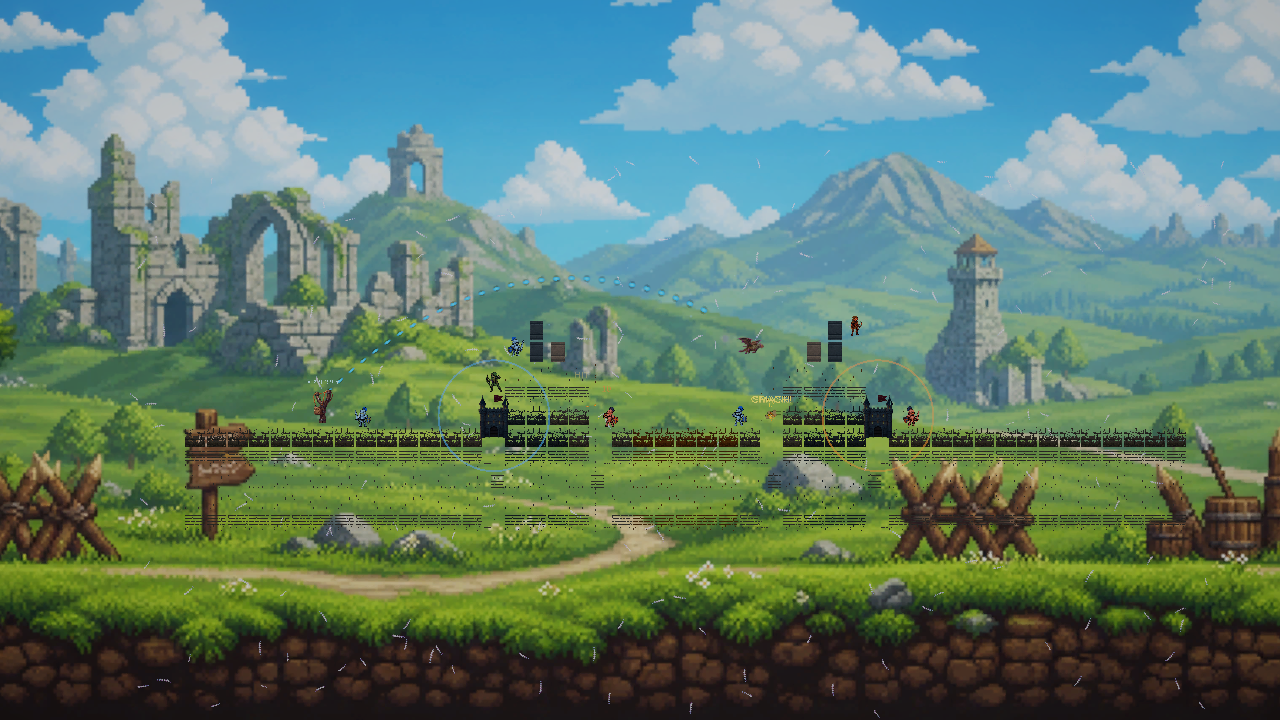
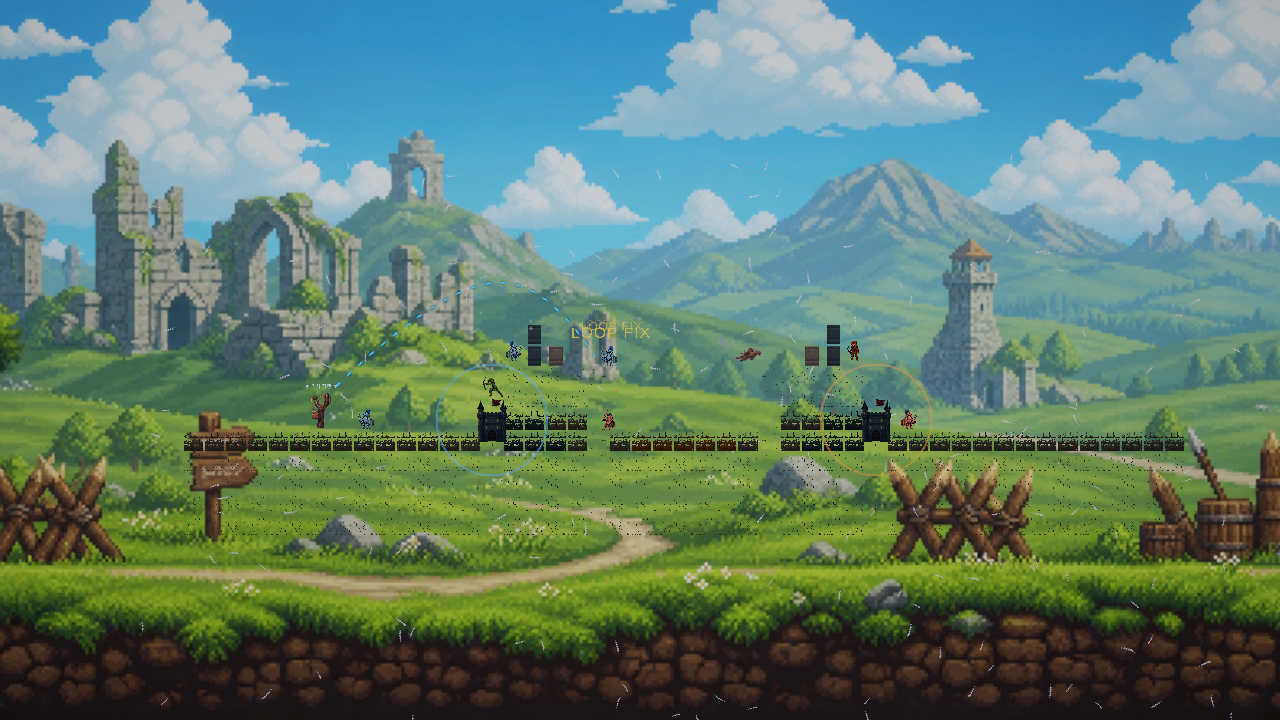
fix(trace): stop drawing a black band through the projectile
The capture showed a thick navy ribbon with no gaps, and the projectile buried in
it. The head was the thick end, so the taper from the previous commit was mine.

Measured: at 1.9x the casing reaches 0.399 units, which is 13px at this camera
against a projectile of about 32px. So a near-black band 40% of the projectile's
width ran through exactly the point being watched, and the 6px core inside it read
as a highlight on a ribbon rather than as dots.

It also closed the dash. `LineTextureMode.Tile` repeats relative to line WIDTH, so
1.9x width stretched the dash period 1.9x and the marks met. One change produced
both symptoms, and both were the opposite of what was asked for.

The head marker was my idea, not a request. The request it was meant to serve —
make the projectile visible — is better served by not drawing over it.

The casing goes from near-black to dark navy at the same time: 5.01:1 against sky
and 3.67:1 against grass, down from 6.18 and 4.45, so both stay well clear of the
3:1 floor and the white core still separates at 12.33:1. What it stops being is a
black band on a bright sky, which is what "연하게" asked to soften.

`Apply`'s taper parameter is deleted rather than left at its default — nothing
passes it now.

EditMode 592/593, zero failures, one legitimate skip. The mid-flight capture shows
separated dots and no ribbon.

diff --git a/Assets/Scripts/ShotTraceDirector.cs b/Assets/Scripts/ShotTraceDirector.cs
@@ -73,8 +73,15 @@ namespace CastleBusters
         /// (6.4:1 sky, 7.3:1 grass, 8.8:1 cloud); on dark ground the casing washes out (1.8:1 on
         /// dirt) and the bright core takes over there instead (3.2:1 enemy, 6.2:1 player). Every
         /// background the arc crosses is covered by at least one of the two layers.
+        ///
+        /// Dark navy rather than the near-black it was, on report: the arc "looks too dark" and the
+        /// projectile was hard to pick out of it. Measured, the change costs little and buys the
+        /// complaint — (0.05,0.09,0.28) contrasts 5.01:1 against sky and 3.67:1 against grass where
+        /// near-black managed 6.18 and 4.45, so both stay well clear of the 3:1 floor, and the white
+        /// core still separates from it at 12.33:1. What it stops being is a black band on a bright
+        /// sky, which is what the capture showed and what "연하게" asked to soften.
         /// </summary>
-        private static readonly Color CasingColor = new Color(0.03f, 0.028f, 0.05f, 0.85f);
+        private static readonly Color CasingColor = new Color(0.05f, 0.09f, 0.28f, 0.85f);
 
         /// <summary>
         /// Vertex alpha of a spent arc's coloured core - deliberately NOT the knob that makes it
@@ -416,22 +423,28 @@ namespace CastleBusters
                 if (dash != null) t.Line.material.mainTexture = dash;
             }
 
-            // 1.9 at the head. The projectile is the last vertex, so the strip is widest exactly
-            // where the thing being followed is — and it narrows behind it, which reads as direction
-            // without an arrowhead. Both layers taper together so the casing keeps backing the core
-            // along the whole length instead of letting it spill past the rim at the head.
-            const float LiveHeadTaper = 1.9f;
-            float taper = live ? LiveHeadTaper : 1f;
-
-            Apply(t.Casing, points, casingWidth, CasingColor, CasingColor, taper);
+            // No taper. Widening the head was tried and it did the opposite of its purpose.
+            //
+            // At 1.9x the casing reached 0.399 units — 13px at this camera, against a projectile
+            // that is about 32px. So a near-black band 40% of the projectile's width ran straight
+            // through the point the player was trying to watch, and the 6px core inside it read as
+            // a thin highlight on a dark ribbon rather than as dots.
+            //
+            // It also destroyed the dash. `LineTextureMode.Tile` repeats relative to the line's
+            // WIDTH, so 1.9x width stretched the dash period 1.9x with it, and the marks ran long
+            // enough to meet. The screenshot showed one continuous navy ribbon, which is exactly
+            // what a dashed line becomes when its gaps close.
+            //
+            // The head marker was my idea rather than a request, and the request it was meant to
+            // serve — "make the projectile visible" — is better served by not drawing over it.
+            Apply(t.Casing, points, casingWidth, CasingColor, CasingColor);
             Apply(t.Line, points, coreWidth,
                 // Live: full alpha at both ends. The muzzle-ward fade is a memory cue, and a shot
                 // that has not landed yet has nothing to remember — fading its tail hides the part
                 // of the path the player is checking against the wind.
                 live ? new Color(tint.r, tint.g, tint.b, 1f)
                      : new Color(tint.r, tint.g, tint.b, tint.a * 0.55f),
-                live ? new Color(tint.r, tint.g, tint.b, 1f) : tint,
-                taper);
+                live ? new Color(tint.r, tint.g, tint.b, 1f) : tint);
         }
 
         private static void ConfigureLine(LineRenderer line, int sortingOrder)
@@ -569,24 +582,12 @@ namespace CastleBusters
             return opaqueDashTexture;
         }
 
-        /// <summary>
-        /// Writes a polyline onto a LineRenderer.
-        ///
-        /// <paramref name="endWidthMult"/> widens the strip toward its LAST vertex. For a shot in
-        /// flight that vertex is the projectile's current position, so a taper marks the projectile
-        /// itself — the second half of the request ("날라가는 물체가 잘 보이게") — without a second
-        /// renderer to keep in step with the arc, and without a marker that outlives the shot.
-        ///
-        /// 1 for a spent arc: it has no head to mark, and tapering a memory would imply the last
-        /// sample matters more than the rest of the path, which is the opposite of what a spent arc
-        /// is for.
-        /// </summary>
         private static void Apply(LineRenderer line, List<Vector2> points, float width,
-                                  Color start, Color end, float endWidthMult = 1f)
+                                  Color start, Color end)
         {
             if (line == null) return;
             line.startWidth = width;
-            line.endWidth = width * endWidthMult;
+            line.endWidth = width;
             line.startColor = start;
             line.endColor = end;
             line.positionCount = points.Count;

diff --git a/_workspace/current/production/task-manifest.md b/_workspace/current/production/task-manifest.md
@@ -142,3 +142,4 @@ Blocking notes:
 | 74 | 반투명 거대 사각형의 진짜 원인 규명 (작업 73 후속) | engineering + QA | done 2026-08-20 - 작업 73이 `UpdateVisuals`의 리스케일 누락을 고쳤지만 **그것이 스크린샷의 원인이라고 증명하지 못했다.** 사용자가 재현 조건을 모른다고 해서 추측을 버리고 전수 조사로 갔다. **(1) 아틀라스는 원인이 아니다** - 패커는 활성이고 실제로 축소하지만(1254px -> 396px, 12.54u -> **3.96u**) **세 밴드가 같은 크기로 패킹**된다. 블록 284개 × 3밴드 = **849 측정, 위반 0건**. 경기 시작 시점 2.5u 초과는 배경(81.5u) 하나뿐이고 발사 후에도 같다. **(2) 진짜 원인: `GameFeelRingPulse:1371`이 `finalRadius`를 `localScale`에 직접 대입한다.** 그것은 **원본 1u 스프라이트에서만** world 반지름이다 - `SpawnShockwaveRing`의 절차적 링은 `Sprite.Create(tex, rect, pivot, pixelsPerUnit: 48)`에 48px이라 정확히 1.0u여서 이름이 참이었고, `SpawnHiggsfieldAccent`는 512px @ 100ppu = **5.12u** 아트를 넘겨 같은 대입이 **5.12배**를 만든다. 턴 진행 프로브가 잡았다: `HiggsfieldCollapseDustAccent` **3.64u**(턴 1부터 매 충돌·붕괴), `HiggsfieldImpactAccent` 2.61u. `SpawnCollapseDust`는 0.4~0.85로 클램프하므로 0.71을 요청했고 **0.71 × 5.12 = 3.63**이 그려졌다. **변이가 양방향 확증**: 수정을 빼면 테스트가 3.63을 보고하고 라이브 실측이 3.64였다. 조치: 정규화를 펄스 안으로(`nativeToWorld = 1/최대변`) - 모든 호출부가 한 번에 고쳐지고 절차적 링은 1.0u라 무변화(변이에도 통과, 두 케이스를 함께 둔 이유). **(3) 추측이 다섯 번 틀렸다**: `fx_spawn` 버스트(이미 배포됨), 이벤트 게이트(`Start`에서 스케일), 설치 벽돌(`ApplyBlockData`가 먼저), 그리고 작업 73의 두 발동 경로(프리팹에 스프라이트 있음·세 PNG 크기 동일). **(4) 정당한 것을 구분했다** - `fx_eruption` 8.07u는 `columnHeight=7.5`에 ±12% 지터이고 그 값이 `Physics2D.OverlapArea` 사각형과 **같은 변수**라 아트가 광고하는 위험과 일치한다. 이름으로 제외하고 기준선은 3.0 유지(정당 최대 2.76 < 3.0 < 결함 3.63). 신규 프로브 2건(`BlockSizeCensusProbe`·`MidMatchOversizeProbe`) + 핀 3건(`RingPulseWorldRadiusTests`, 절차/아트 두 케이스 + null). 근거: EditMode **590/591**(실패 0, Skip 1 정당), 9턴 walk + 화포 설치 **0건**, `qa/evidence/block-size/` | G4/G6 |
 | 75 | 발사체 비행 중 궤적을 점선으로 보이게 | engineering + QA | done 2026-08-20 - 사용자 요청 "아군이 발사체를 놓았을때는 날아가는게 보이게, 그때 궤도가 점선으로 해서 잘보이게". **점선·케이싱·타일링 기계는 이미 다 있었고 빠진 것은 비행 중 렌더 호출 하나였다.** `ShotTraceDirector.Sample`이 점만 누적하고 그리지 않아, 궤적이 `Seal()`(턴 해결, `GameManager:2579`) 때 비로소 나타났다 - 즉 **비행 자체는 무궤적**이었고 플레이어는 맨 스프라이트가 날아가는 것을 보다가 경로가 더 이상 쓸모없어진 뒤에 그것을 알게 됐다. 아무도 못 잡은 이유는 기존 테스트가 전부 **턴 해결 후**를 재는데 그때는 실제로 동작했기 때문이다. 조치: `Sample`이 누적한 것을 즉시 `Draw`한다 - **새로 그리는 것은 없다**(대시 텍스처·어두운 케이싱·`LineTextureMode.Tile`·폭 전부 기존 spent arc의 레이어 재사용). 부수 이점: `Draw`의 그라디언트가 "착탄 쪽이 진하게"인데(`:371-372`) 비행 중 그 끝은 **발사체의 현재 위치**이므로 움직이는 머리가 가장 진하다 - 의도하지 않았지만 맞는 동작. 성능: 표본 게이트가 0.35 world unit이고 `MaxSamples` 상한이 있어 재드로가 작다(실측 **29점**). 반복 호출 안전성 확인 - `Draw`는 `t.Root == null`일 때만 할당하므로 머티리얼 누수 없음. `ShotOpen` 접근자 추가(`SampleCount`와 같은 이유 - 해결 후를 재는 테스트는 라이브 궤적과 그것을 대체하는 spent를 구분할 수 없다). **변이 확증**: 렌더 호출을 빼면 비행 중 **0점**, 넣으면 1.7초에 걸쳐 29점까지 자란다. 근거: EditMode **590/591**(실패 0, Skip 1 정당), PlayMode 4/4, `qa/evidence/visibility/live-arc.txt`. **주의: 전체 PlayMode 스위트는 15분 타임아웃에 걸린다** - 관련 프로브만 필터로 돌렸다 | G4/G6 |
 | 76 | 발사 후 궤적이 여전히 어둡다 - 점선을 밝게 + 발사체 강조 | design + engineering + QA | done 2026-08-20 - 사용자 보고 "발사하고 나선 궤적 표시가 점선으로 날라가는 물체가 잘 보였으면". 모호한 절반은 **인터뷰로 확정**했다 - 답: "궤적 + 발사체 둘 다", "점은 보이는데 어둡다". **측정이 반직관적 사실을 말했다: 밝게 하면 더 나빠진다.** 코어는 대시(피크 알파 0.549)를 통해 **거의 검은 케이싱 위에** 칠해지므로 흰 점이 **중간 회색 0.536**으로 합성되고, 이 판의 하늘(0.72)보다 **어둡다** - 하늘 대비 1.14, 초지 1.25(기준선 3:1). 불투명하게 해도 흰색 2.44·호박 1.58·주황 1.06으로 전부 미달인데, 양 배경이 중간 밝기라 **창백한 선은 갈 곳이 없다**. **레버는 색이 아니라 불투명도**: 불투명 흰 점 대 어두운 케이싱 **15.11**, 케이싱 대 하늘 6.18·초지 4.45 - 눈이 쓰는 모든 경계가 여유롭게 통과한다. 2층 구조는 이미 있었고 **대시의 알파 상한이 밝은 층을 밝지 못하게 하고 있었다.** 조치 - (a) `OpaqueDashTexture()`: 공유 대시의 알파를 **비례 상승**(임계값 아님 - 이 굵기(~3px)에서 컷오프는 점에 계단이 생긴다), 같은 주기·듀티·위상 유지. 라이브만 사용하고 spent는 반투명 유지("지난 shot은 기억으로 읽혀야 한다"는 기존 설계이고 사용자도 발사 전은 상관없다고 했다). (b) 라이브 코어 알파를 양 끝 1.0 - 발사구 쪽 페이드는 기억 신호이고 아직 착탄하지 않은 shot은 기억할 것이 없다. (c) **머리 테이퍼 1.9배**: 발사체가 마지막 정점이므로 스트립이 **따라가는 대상이 있는 바로 그 자리에서 가장 굵다** - 화살촉 없이 방향이 읽히고, 별도 렌더러나 shot보다 오래 사는 마커가 필요 없다. 케이싱도 함께 테이퍼해 림이 머리에서 밀리지 않는다. **발견: `trajectory_dash`가 읽기 불가였다** - `GetPixels32`가 던져 알파 상승이 조용히 원본을 반환했고 **런타임에서 수정이 아무것도 하지 않았다**(지면 타일과 같은 부류). 64×16·446바이트라 읽기 활성 비용이 없다. 테스트가 Skip으로 그것을 알렸다. 부수 수정 - 캐시 정리가 EditMode에서 `Destroy`를 불러 `ConsecutiveShots_DoNotInheritEachOthersTally`의 SetUp을 깨뜨렸다(`DestroyImmediate`로 분기). 근거: EditMode **592/593**(실패 0, Skip 1 정당), PlayMode 1/1, 비행 중 캡처 `qa/evidence/visibility/live-arc-inflight.png`(42점) | G4/G6 |
+| 77 | 작업 76의 머리 테이퍼가 발사체를 덮었다 - 되돌림 | engineering + QA | done 2026-08-20 - 사용자 스크린샷: 궤적이 **두꺼운 남색 리본**이고 점선이 아니며 발사체가 그 안에 묻혔다. 오른쪽(머리)이 굵으니 **작업 76의 테이퍼가 원인**이다. 실측 - 머리에서 케이싱이 0.399u = **13px 거의 검정**이고 발사체는 약 32px이므로 **발사체 폭의 40%를 검정이 덮는다**. 그 안의 코어는 6.4px이라 결과는 "얇은 밝은 심이 있는 검은 리본"이고 스크린샷과 정확히 일치한다. **그리고 테이퍼가 대시까지 죽였다** - `LineTextureMode.Tile`은 선 **폭**에 상대적으로 타일링하므로 1.9배 넓히면 대시 주기도 1.9배 늘어나 마크가 이어진다. 즉 하나의 변경이 두 증상을 만들었고 둘 다 요청과 반대였다. **머리 마커는 요청이 아니라 제 발상이었고**, 그것이 섬기려던 요청("발사체가 잘 보이게")은 **발사체 위에 그리지 않는 것**으로 더 잘 섬긴다. 조치 - (a) 테이퍼 제거(`Apply`의 `endWidthMult` 매개변수도 함께 삭제, 죽은 인자를 남기지 않는다), (b) 케이싱을 거의 검정(0.03,0.028,0.05) -> **짙은 남(0.05,0.09,0.28)**: 하늘 6.18->**5.01**, 초지 4.45->**3.67**로 둘 다 3:1 기준선을 여유롭게 유지하고 흰 코어와의 대비도 15.11->**12.33**으로 충분한데, **밝은 하늘 위의 검은 띠이기를 그만둔다** - 사용자가 말한 "연하게"가 요구한 것. 검증: 비행 중 캡처에서 점선이 얇게 분리돼 보이고 리본이 사라졌다(37점). 근거: EditMode **592/593**(실패 0, Skip 1 정당), PlayMode 1/1, `qa/evidence/visibility/live-arc-inflight.png` | G4/G6 |
